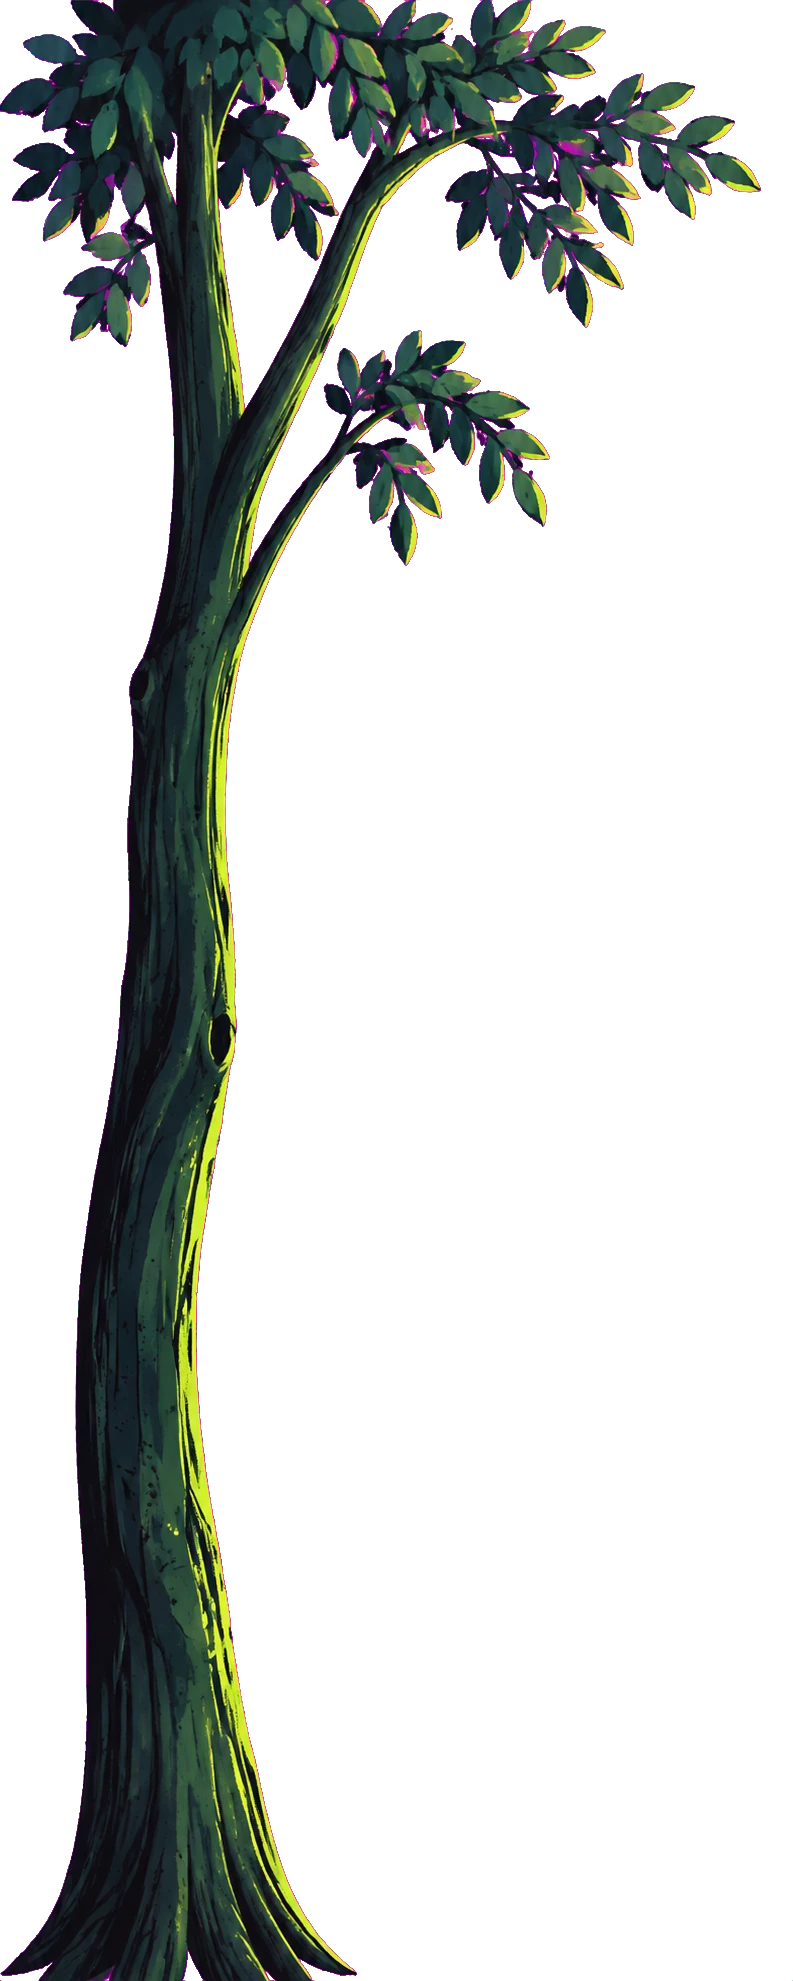
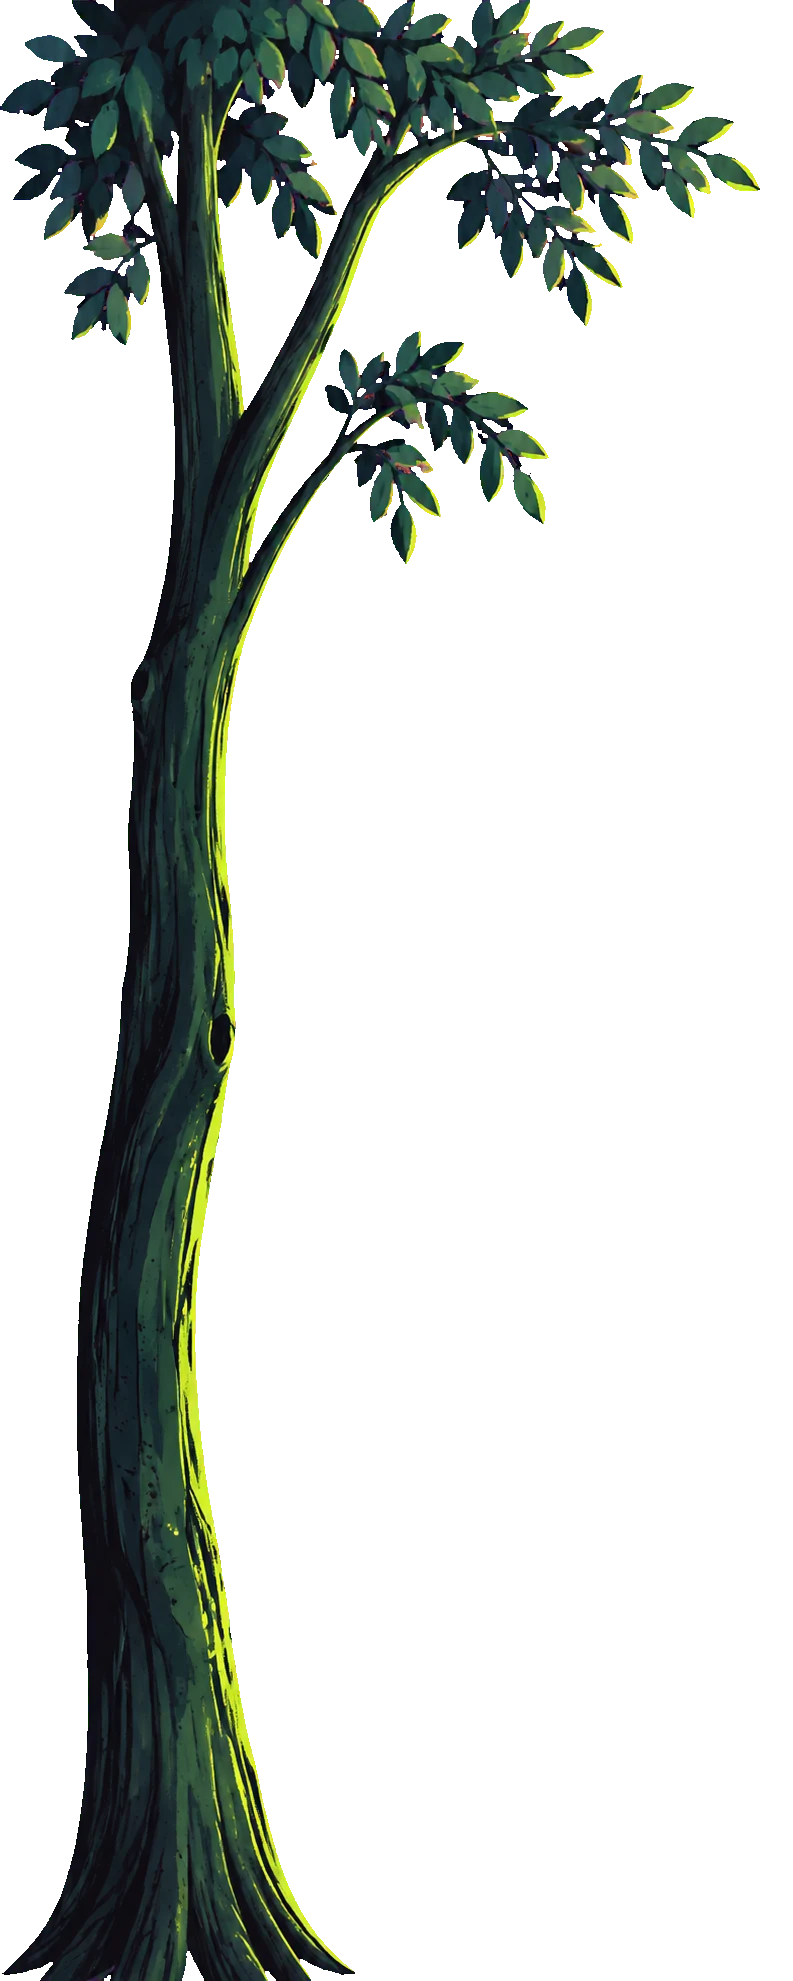
fix(bloomscroll): no magenta edges on the scenery art
The moon, front frame, back paintings (wide, portrait and phone) and tablet trees are re-cut with the shared
magenta key: the cut edge is choked 1 px and any magenta cast is removed, so no pink outline shows against the sky.
ART_V goes to v=16 so no browser mixes cached old pictures with the new ones.

diff --git a/components/feed/BloomscrollScene.js b/components/feed/BloomscrollScene.js
@@ -20,7 +20,7 @@ import { BLOOMSCROLL_LOGO } from "@/components/Header/nav-links"
 // so a sharper file of the same shape replaces one with no other change.
 const IMG = "/images/bloomscroll/"
 // Bump when any scene image is replaced, so no browser mixes a cached old picture with new code
-const ART_V = "v=13"
+const ART_V = "v=16"
 const MOON = "moon.webp"
 const WIDE_ART = {
   sky: "sky.webp", far: "far-cut.webp", soft: "far-cut-blur.webp", clouds: "clouds.webp",
